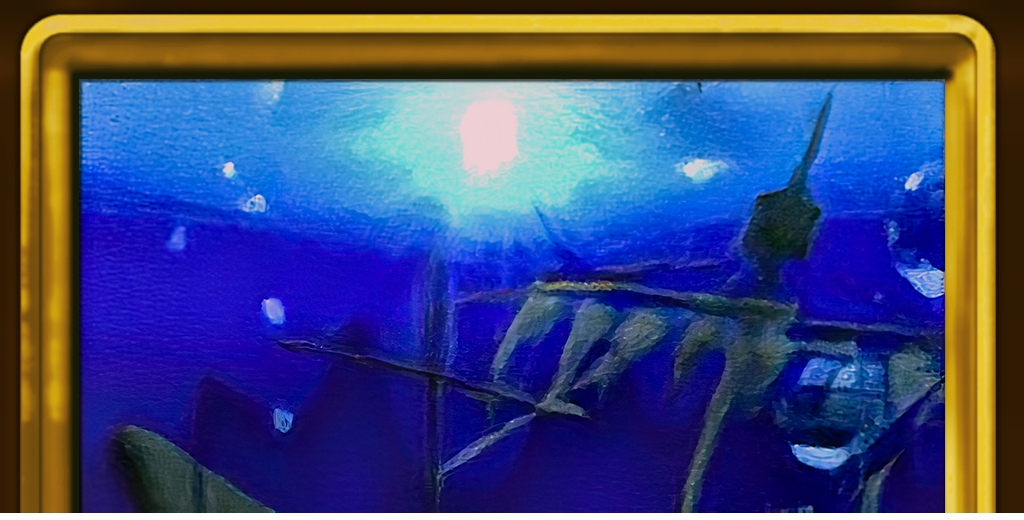
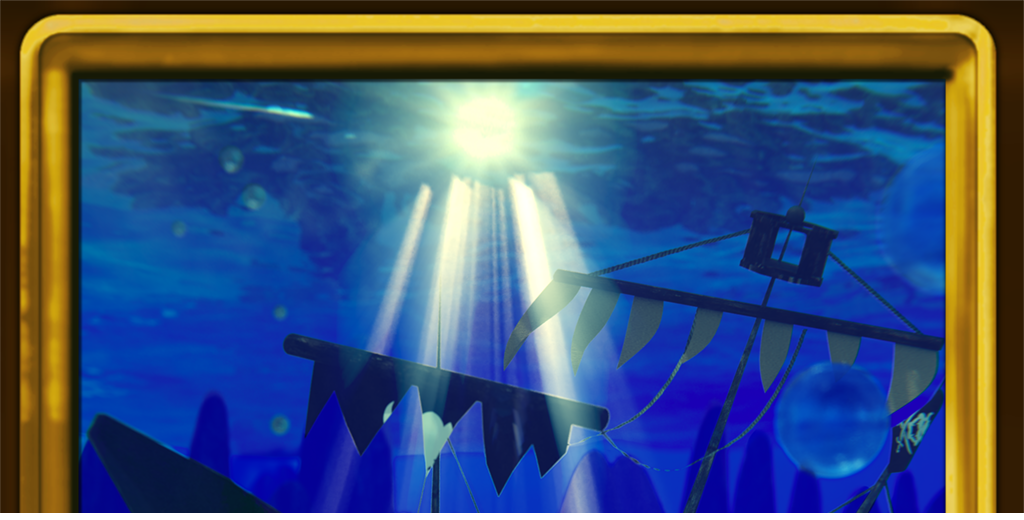
new jolly roger bay painting by bradley

diff --git a/README.md b/README.md
@@ -9,10 +9,10 @@ A collaboration texture pack for Super Mario 64 with the people over at the OldS
 The end goal for this project is to use the original sources for every texture in the game when possible, and use that to hopefully achieve 100% accuracy by recreating the textures with the same process and resources Nintendo had at their disposal back in 1996, as well of incorporating elements from the promotional art into the game with ESRGAN upscales as placeholders for the original textures. The team and I will make to fill in the blanks where no texture sources could be found.
 
 
-Render 96/OldSchool HD Discord server: discord.gg/DZU3FSD
+Render 96 Discord server: discord.com/invite/render96
 Render 96 Contributors:
 ------------------------------
-DorfDork
+[DorfDork](https://twitter.com/DorfDork)
 
 Clamibalism
 
@@ -47,6 +47,13 @@ P3ST - Provided Placeholder Assets
 [dokotroopi](https://twitter.com/dokotroopi) - Worked on adding textures
 
 [MtH](https://twitter.com/MtH13208) - Worked on adding textures
+
+[Bradley](https://www.youtube.com/channel/UCYEasINbPTxXiUMHivtYxWg/featured) - Worked on Jolly Roger Bay painting
+
+[Nugget](https://twitter.com/7h3nugg3tm4st3R) - Worked on Tiny huge island painting
+
+Shoutouts to [Cupscale](https://github.com/n00mkrad/cupscale) by [N00MKRAD](https://www.patreon.com/n00mkrad) from the [Game Upscale](https://discord.gg/nbB4A5F) discord server which as of lately i have been using a lot to further enhance some of the old texture finds we've coming across.
+go support him if you can
 
 *RESRGAN contributors*
 ------------------------
